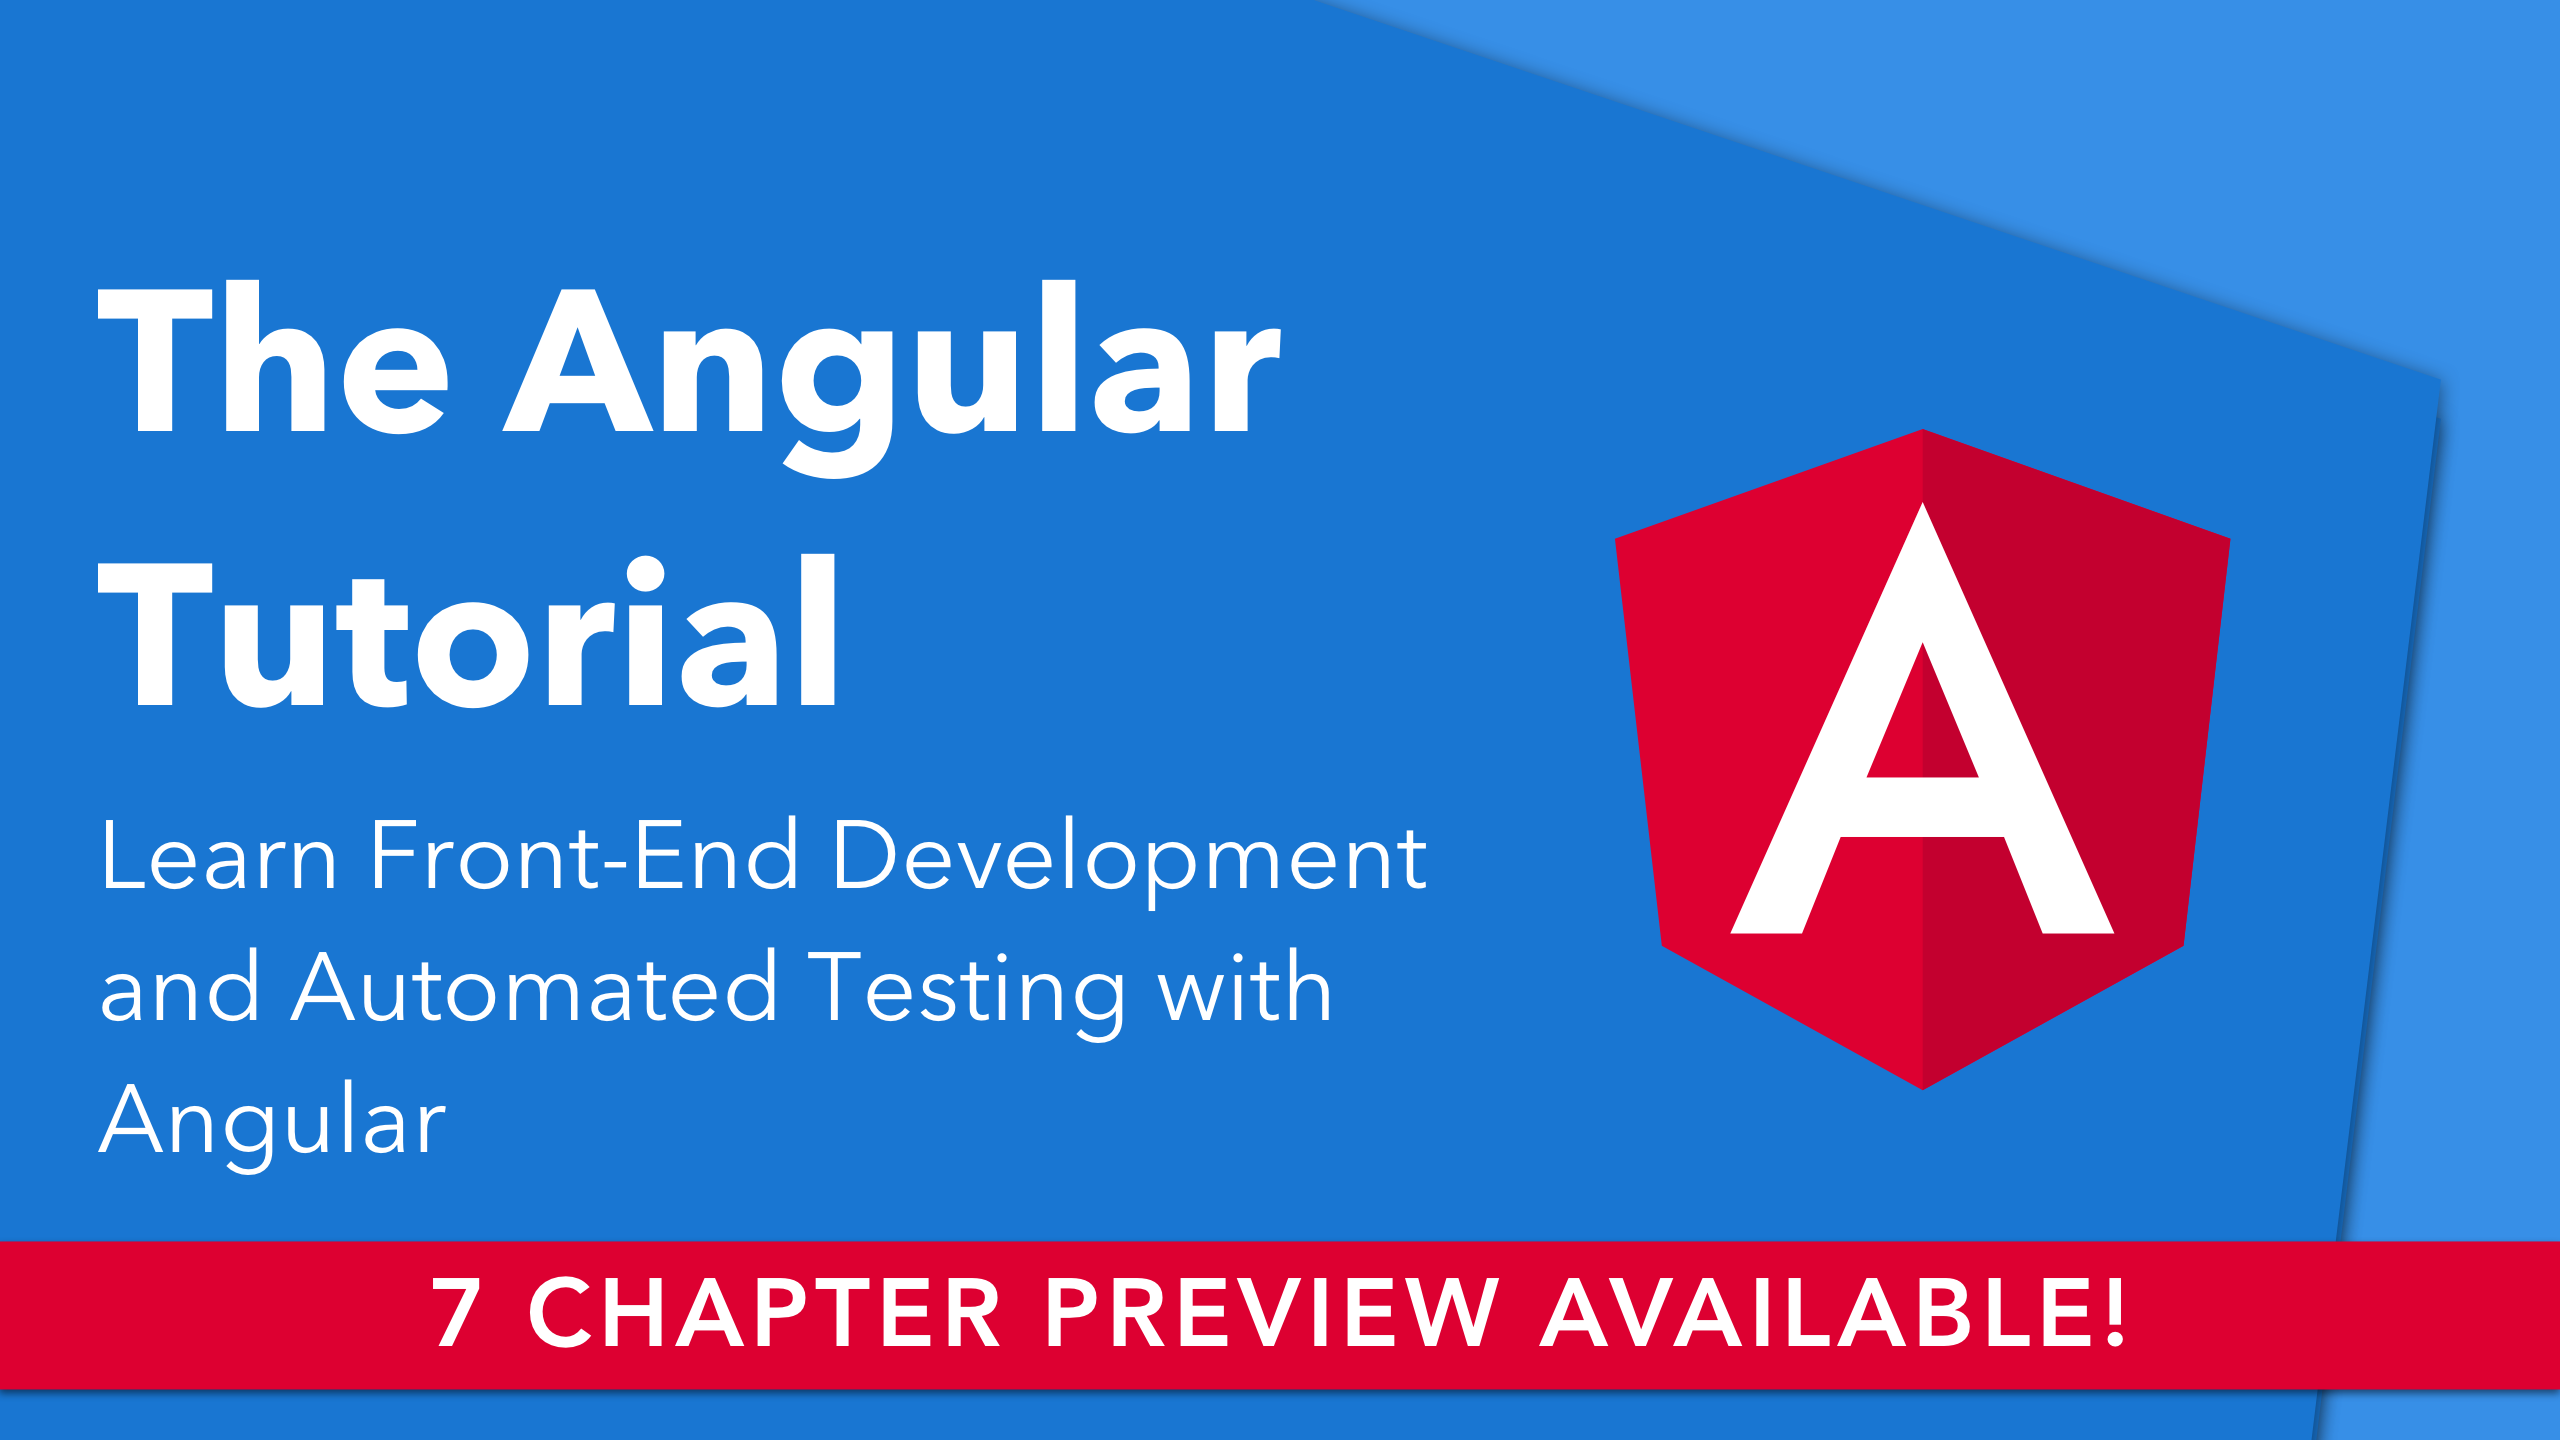
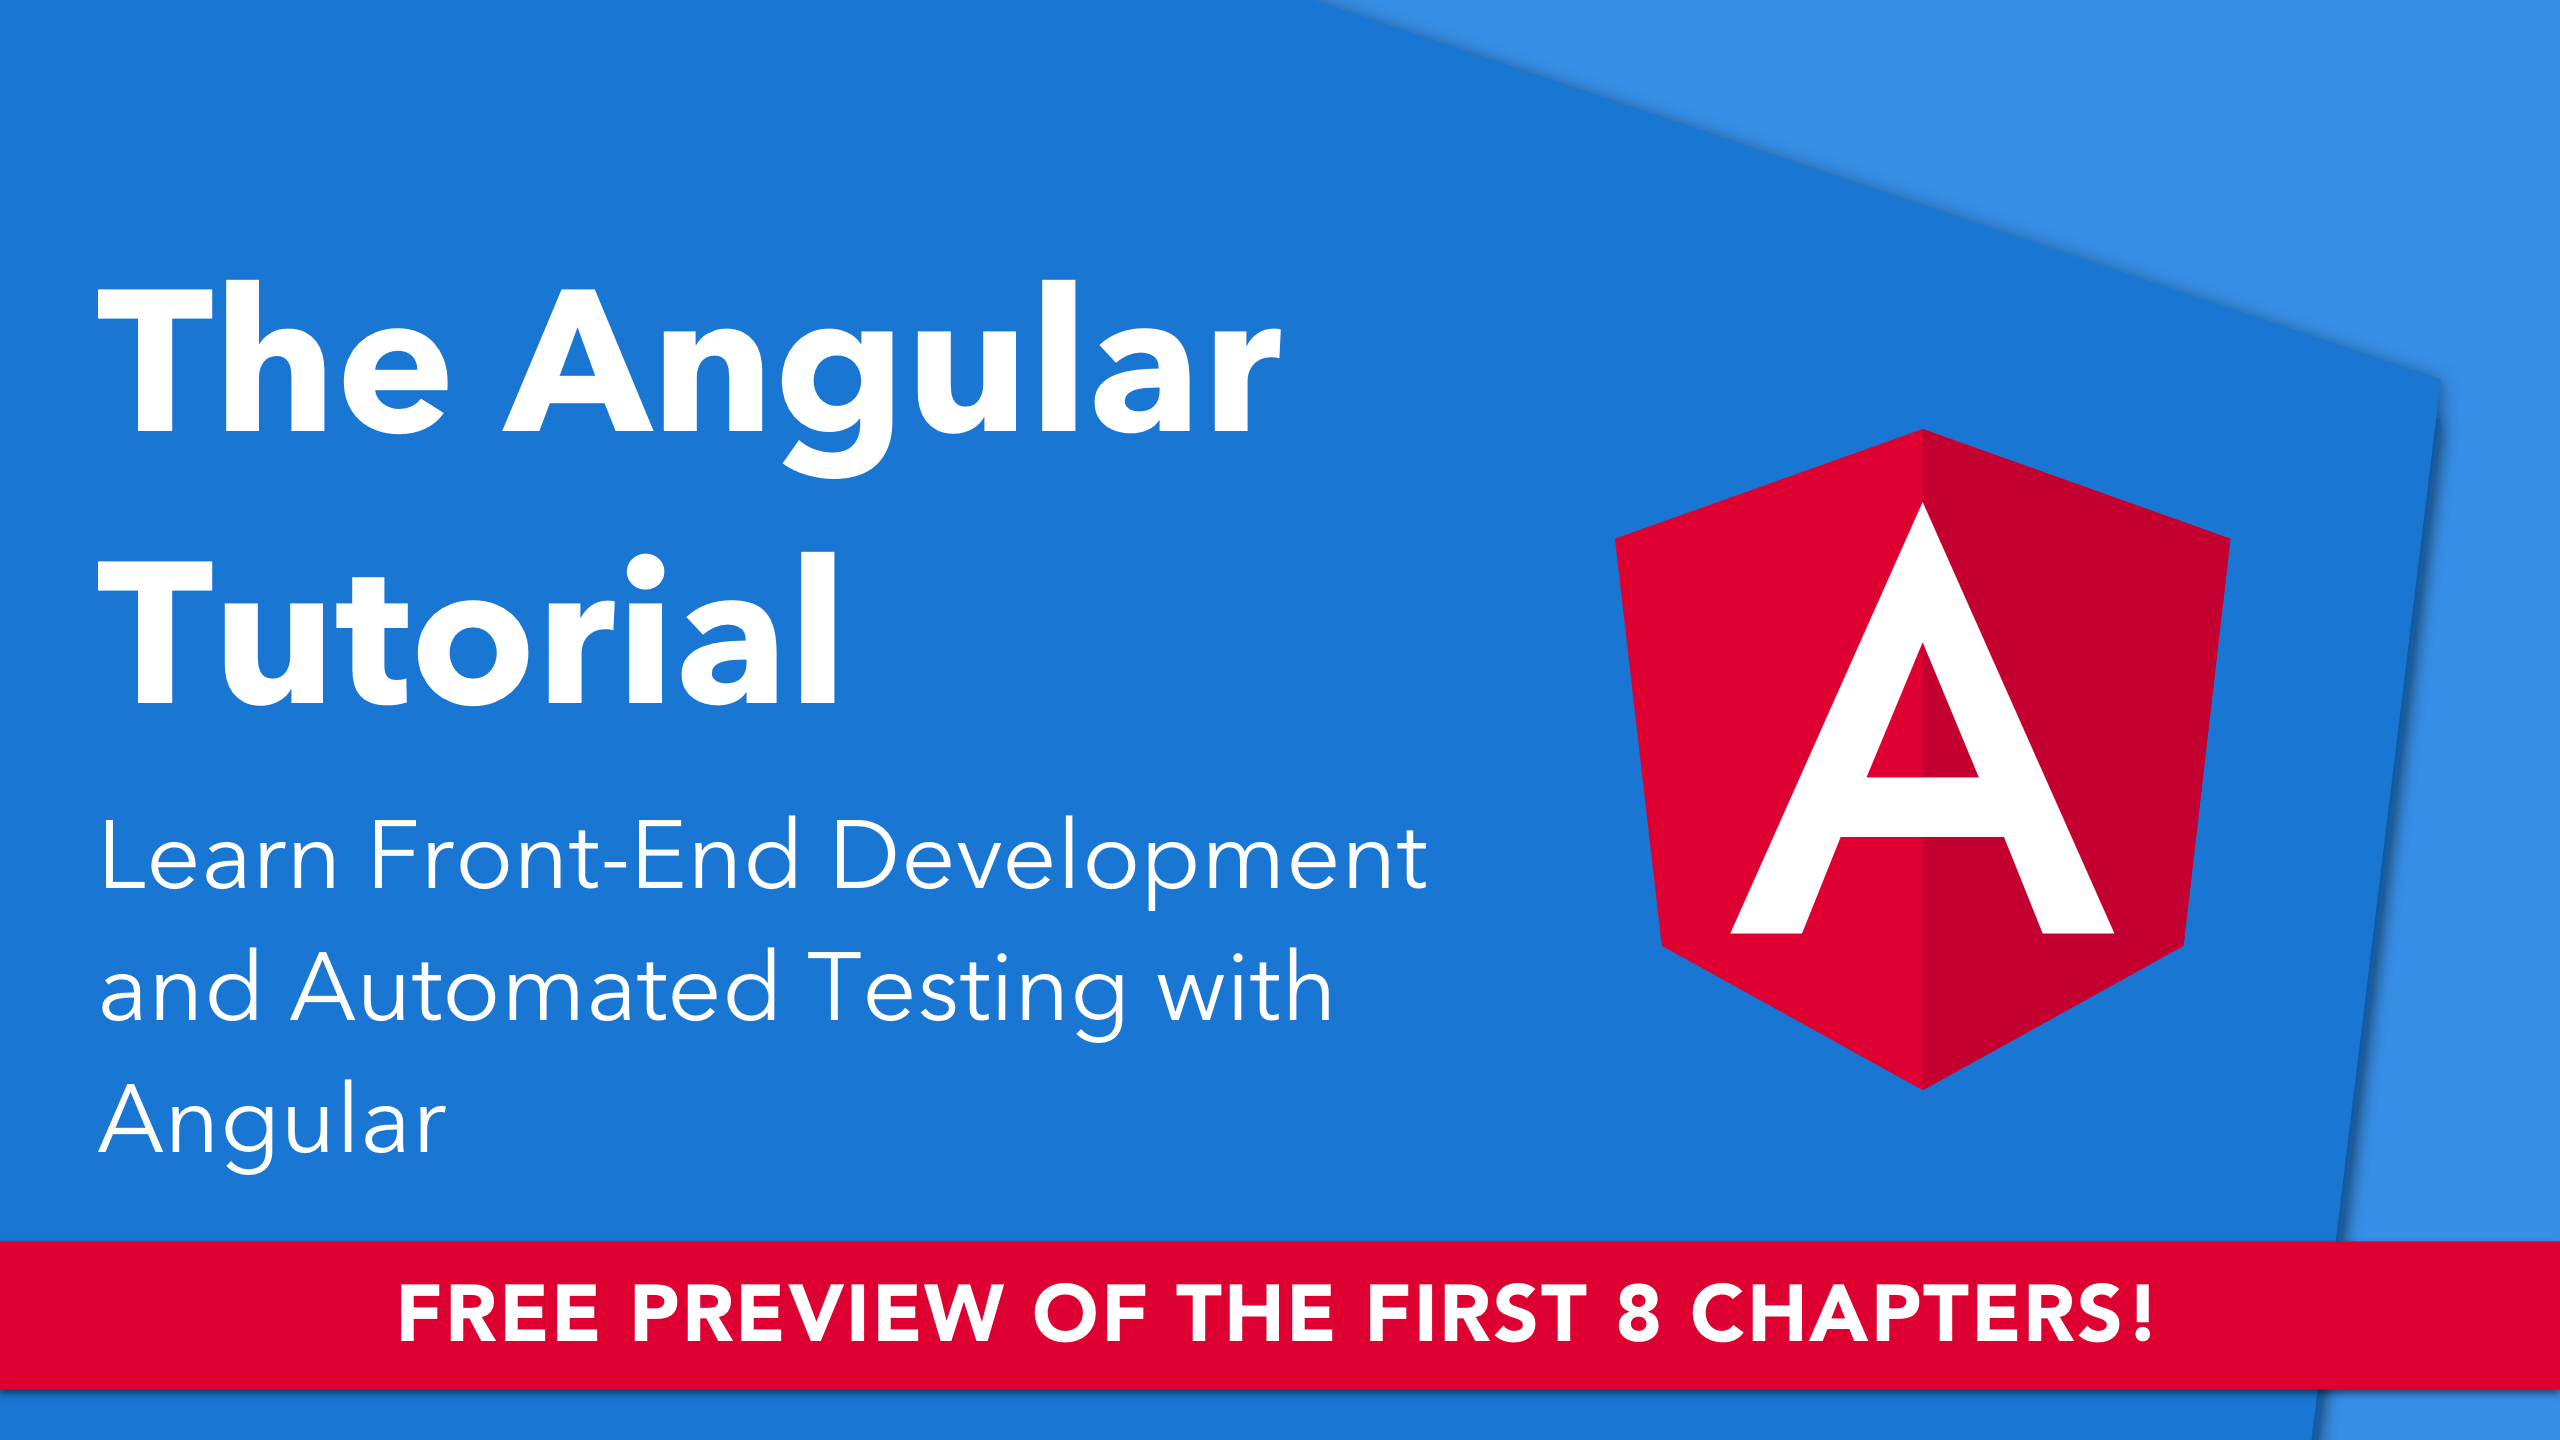
Update preview image and copy

Changed region(s): [[0.1562, 0.875, 0.8438, 0.9375]]

diff --git a/_includes/book-plug.html b/_includes/book-plug.html
@@ -13,7 +13,7 @@
   </header>
 
   <a href="https://www.dropbox.com/s/0wrxpt4czhcmqci/the-angular-tutorial-preview.pdf?dl=0" class="image main" target="_blank" style="margin: 2rem auto;"><img src="../images/angular-tutorial-preview.png" alt="" style="display: block; width: 65%; margin: 0 auto;" /></a>
-  <h4 style="text-align: center; margin-bottom: 3rem;"><a href="https://www.dropbox.com/s/0wrxpt4czhcmqci/the-angular-tutorial-preview.pdf?dl=0" target="_blank">CLICK HERE FOR A FREE 7 CHAPTER PREVIEW OF THE ANGULAR TUTORIAL</a></h4>
+  <h4 style="text-align: center; margin-bottom: 3rem;"><a href="https://www.dropbox.com/s/0wrxpt4czhcmqci/the-angular-tutorial-preview.pdf?dl=0" target="_blank">CLICK HERE FOR A FREE 8 CHAPTER PREVIEW OF THE ANGULAR TUTORIAL</a></h4>
   <p>The Angular Tutorial teaches the Angular framework with an approach that simulates how a front-end developer would use Angular on the job. Many tutorials cut corners on specific concepts or features within a web framework which leave gaps between what is learned and what a developer can expect on the job. In The Angular Tutorial, you’ll be introduced to Angular in a way that’s as “real world” as possible.</p>
   <p>In other books, interacting with a real API and database is often skipped with hard-coded values used as a substitute. Topics such as automated testing are usually skipped entirely. In The Angular Tutorial, you’ll be provided an API that you’ll setup just as you would as a front-end developer in a real job. Throughout the rest of the book you’ll then learn how to read the API’s documentation, creating and deploying a fully tested Angular application that interacts with a real database and API.</p>
   

diff --git a/index.html b/index.html
@@ -41,7 +41,7 @@ sitemap:
 						<!-- Featured Post -->
 							<article class="post featured">
 								<header class="major">
-									<h2><a href="https://www.dropbox.com/s/0wrxpt4czhcmqci/the-angular-tutorial-preview.pdf?dl=0" target="_blank">FREE 7 CHAPTER PREVIEW OF THE ANGULAR TUTORIAL</a></h2>
+									<h2><a href="https://www.dropbox.com/s/0wrxpt4czhcmqci/the-angular-tutorial-preview.pdf?dl=0" target="_blank">FREE 8 CHAPTER PREVIEW OF THE ANGULAR TUTORIAL</a></h2>
 									<p><i>"The advice and techniques in this book landed me my dream job and literally doubled my salary. Well worth the $99 bucks, so much so that I have been waiting for it to be for sale just to pay the man for the good he has done to my career." -Levi Robertson</i></p>
 								</header>
 								<a href="https://www.dropbox.com/s/0wrxpt4czhcmqci/the-angular-tutorial-preview.pdf?dl=0" class="image main" target="_blank"><img src="images/angular-tutorial-preview.png" alt="" style="display: block; width: 65%; margin: 0 auto;" /></a>
